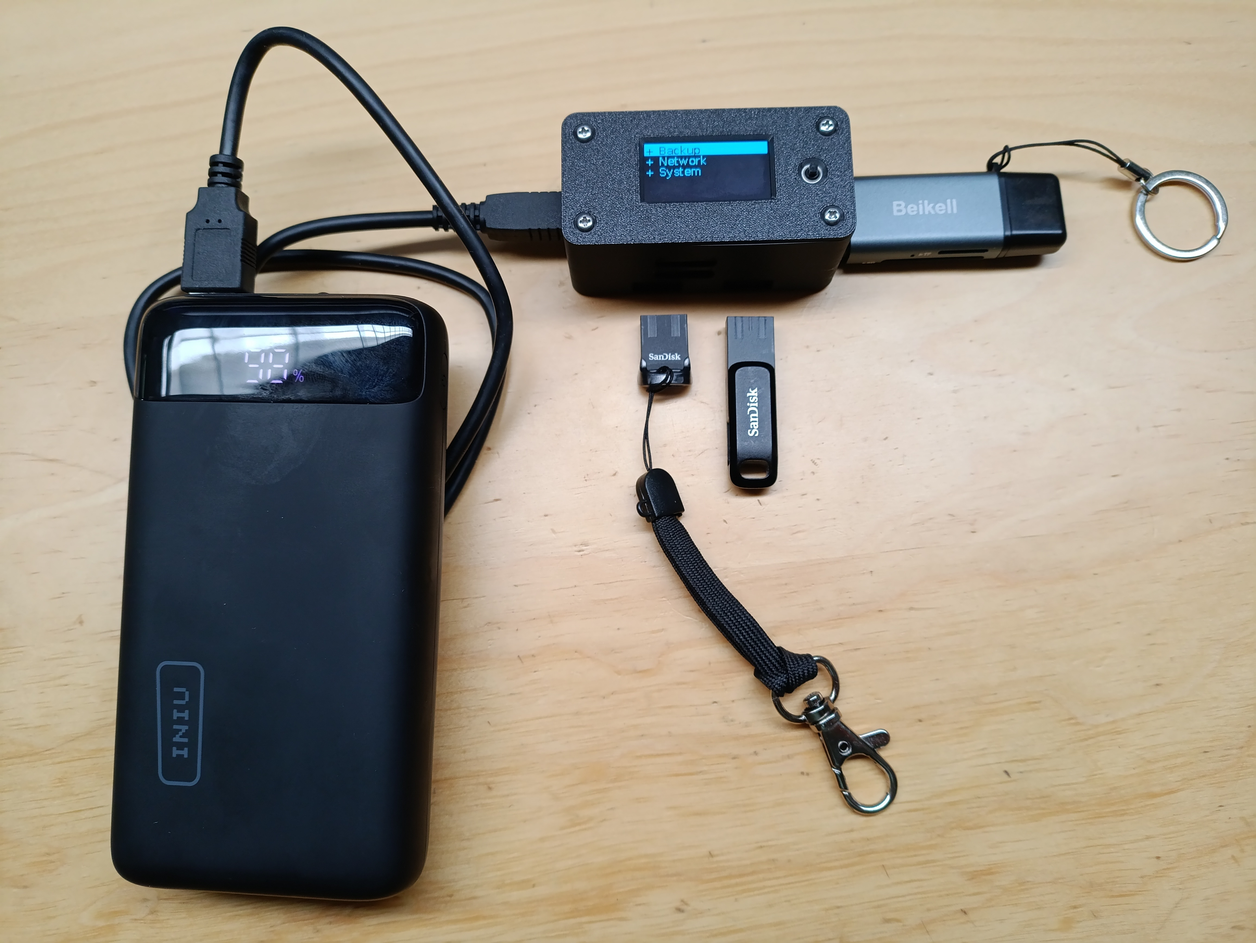
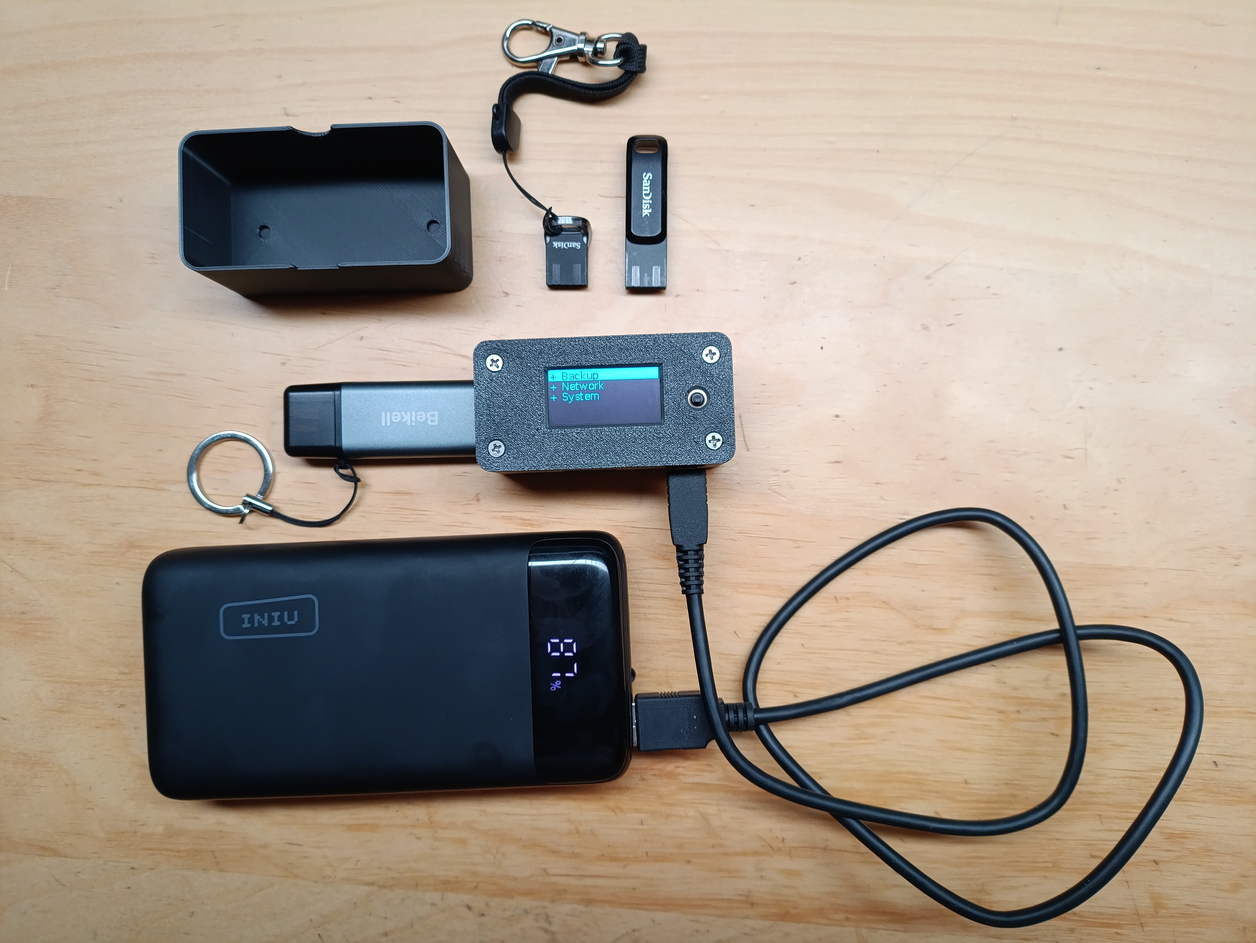
add case for zero 2W by SigmaFred

diff --git a/Raspberry_Pi_zero_2W/README.md b/Raspberry_Pi_zero_2W/README.md
@@ -10,6 +10,21 @@ Many thanks to <a href="https://github.com/SigmaFred">SigmaFred</a>
 	<li>Small parts, see image below</li>
 </ul>
 
+## Setup
+### Display
+Driver: SH1106
+Interface: SPI
+SPI port: 0
+Horizontal resolution: 128
+Vertical resolution: 64
+Color: Black-and-white
+
+### Control buttons
+Variant 3
+
+
+### Gallery
+
 <figure>
 	<img src="https://github.com/outdoorbits/case-for-little-backup-box/blob/main/Raspberry_Pi_zero_2W/images/zero2w_action.jpg" align="center">
 	<figcaption>In action</figcaption>
